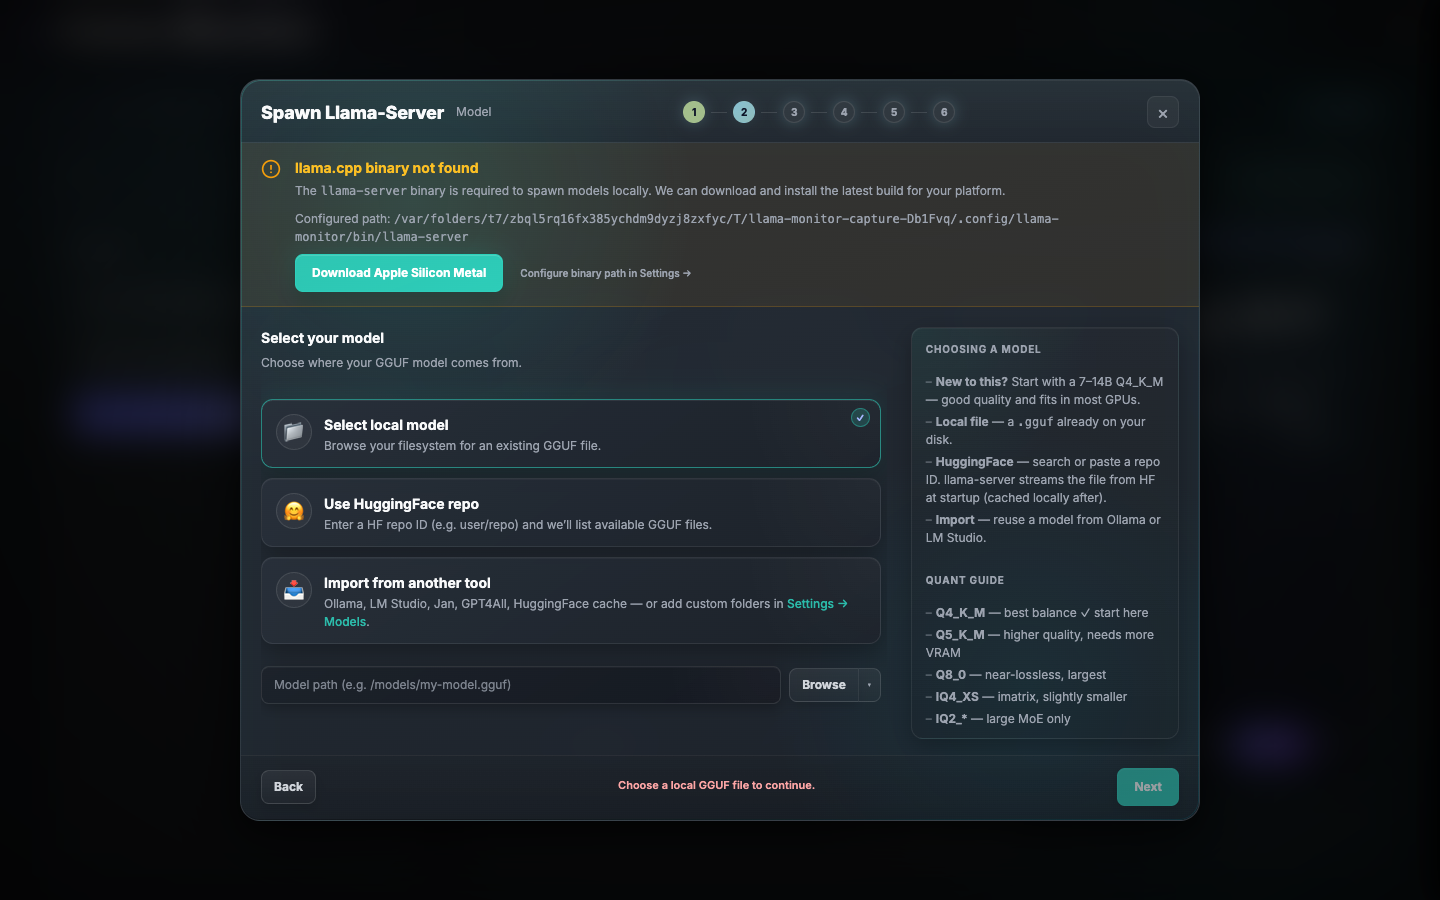
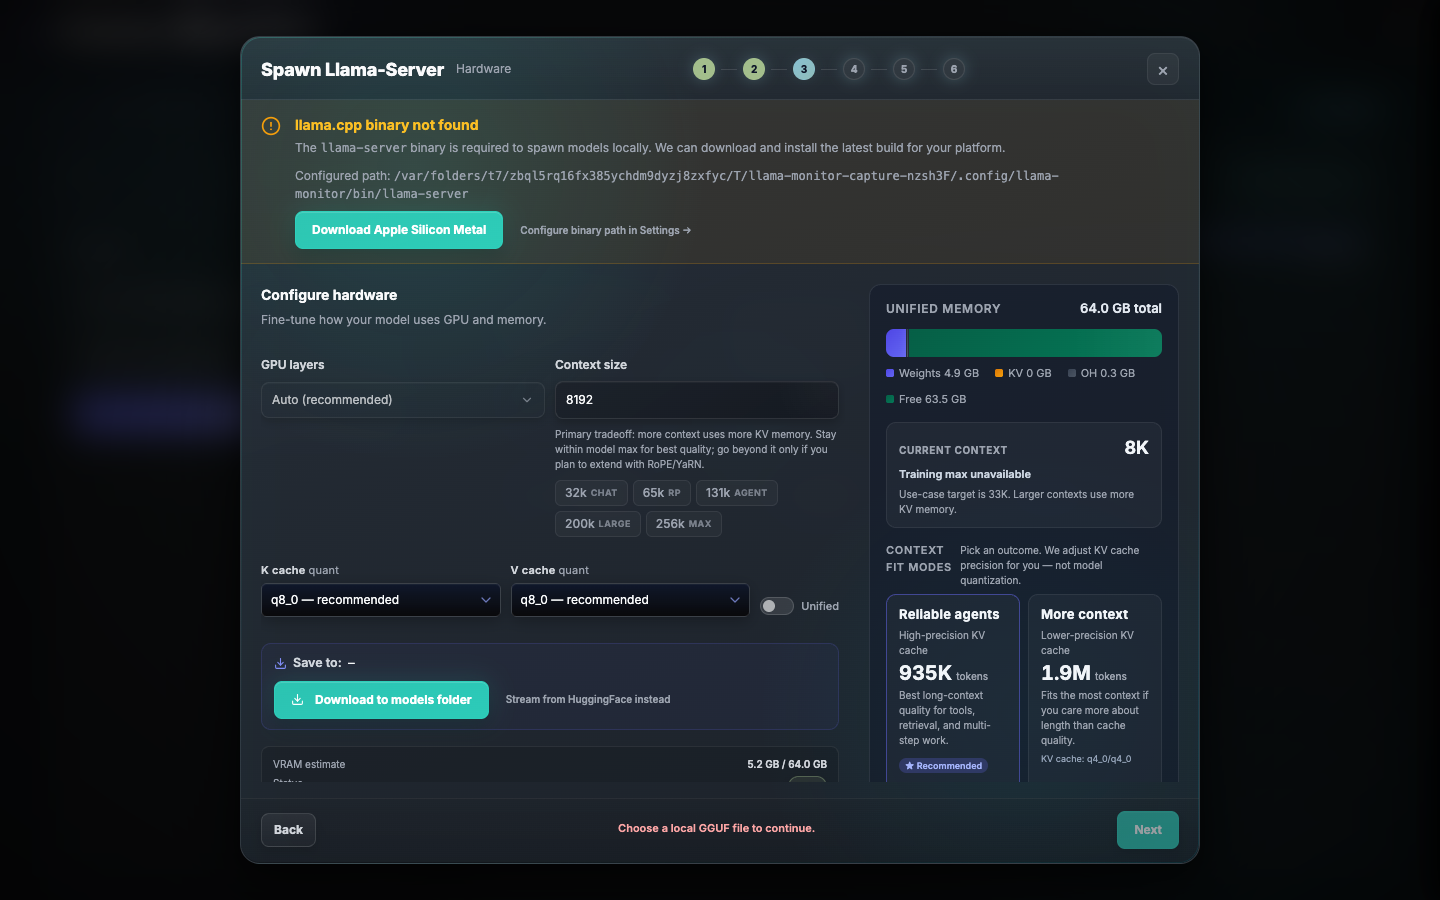
feat(wizard): add Welcome Screen to spawn wizard docs, reorder steps, clear stale model state

diff --git a/static/js/features/spawn-wizard.js b/static/js/features/spawn-wizard.js
@@ -160,7 +160,7 @@ function formatSpeed(bps) {
 
 // ── State ─────────────────────────────────────────────────────────────────────
 
-const STEP_LABELS = ['Profile', 'Model', 'Hardware', 'Summary', 'Parameters', 'Spawn'];
+const STEP_LABELS = ['Profile', 'Model', 'Hardware', 'Parameters', 'Summary', 'Spawn'];
 
 // Exposed for testing/screenshot scripts; internal state is mutable.
 export const wizardState = {
@@ -1498,6 +1498,14 @@ function hfSearchForWizard({ query, author, sort, limit }) {
     discoverPillsContainerId: 'hf-discover-pills',
     onOpenCardPanel: (repoId) => openCardPanel(repoId),
     onSelectModel: (m) => {
+      // Clear stale data from previous model selection
+      wizardState.model.paramB = 0;
+      wizardState.model.modelBytes = 0;
+      wizardState.model.quantFiles = [];
+      wizardState.model.originRepo = '';
+      wizardState.model.originFile = '';
+      wizardState.model.path = '';
+      wizardState.model.hfFile = '';
       wizardState.model.hfRepo = m.id;
       if (dom.hfRepoInput) dom.hfRepoInput.value = m.id;
       if (m.param_b > 0) wizardState.model.paramB = m.param_b;

diff --git a/static/css/setup-view.css b/static/css/setup-view.css
@@ -2518,8 +2518,7 @@ body.setup-active .sidebar-nav {
   z-index: 2;
   width: 100%;
   box-sizing: border-box;
-  flex: 1 0 auto;
-  min-height: 0;
+  flex: 0 0 auto;
 }
 
 /* ── Preset launch card ───────────────────────────────────────────────────── */

diff --git a/docs/reference/spawn-wizard.md b/docs/reference/spawn-wizard.md
@@ -1,8 +1,17 @@
 # Spawn Wizard Reference
 
-The Spawn Wizard is a 5-step guided flow for configuring and launching a llama-server instance. It handles hardware detection, VRAM-aware parameter selection, model acquisition (local, HuggingFace, third-party), and binary management.
+The Spawn Wizard is a 6-step guided flow for configuring and launching a llama-server instance. It handles hardware detection, VRAM-aware parameter selection, model acquisition (local, HuggingFace, third-party), and binary management.
 
-Entry points: the **New Server Wizard** card on the welcome screen, the **+ New Session** button in the top nav, and the **Spawn Local Server** link on the logs empty state.
+## Welcome Screen
+
+The first screen a user sees when launching Llama Monitor. It has two main panes:
+
+- **Connect to Endpoint** (left): Connect to an existing llama-server instance by entering the URL and optional API key.
+- **Local Server** (right): Configure and launch a local server using a preset or the New Server Wizard.
+
+![Welcome screen](../screenshots/welcome-welcome.png)
+
+Entry points to the Spawn Wizard: the **+ New Configuration** button on the Local Server pane, the **+ New Session** button in the top nav, and the **Spawn Local Server** link on the logs empty state.
 
 ![Spawn Wizard Flow](../screenshots/spawn-wizard-flow.gif)
 